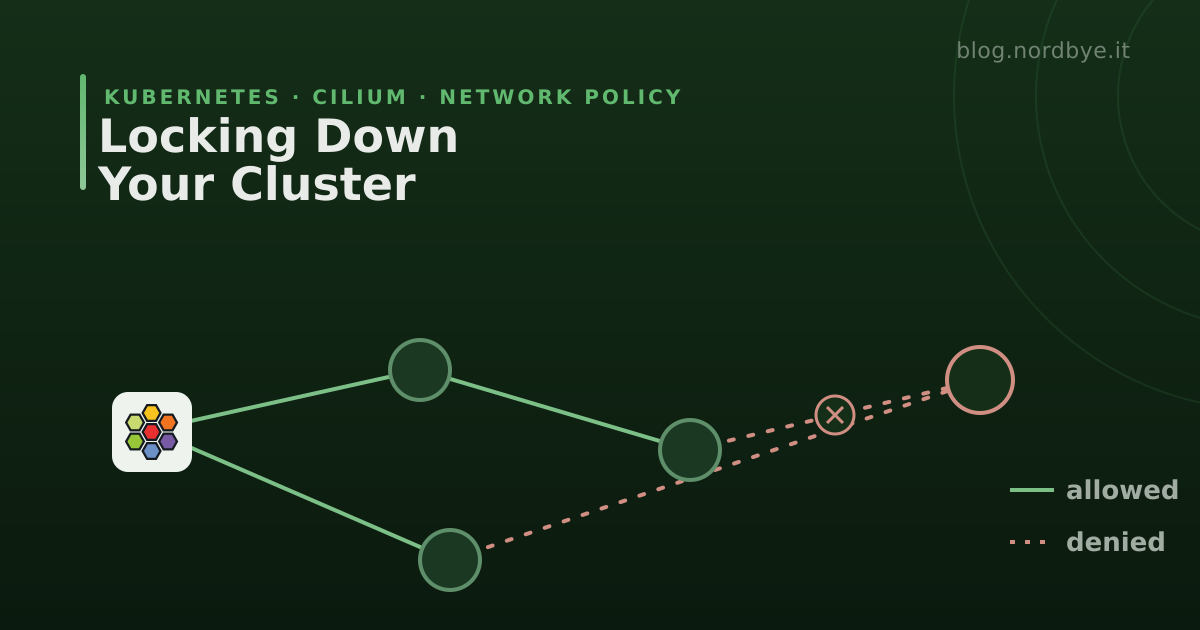
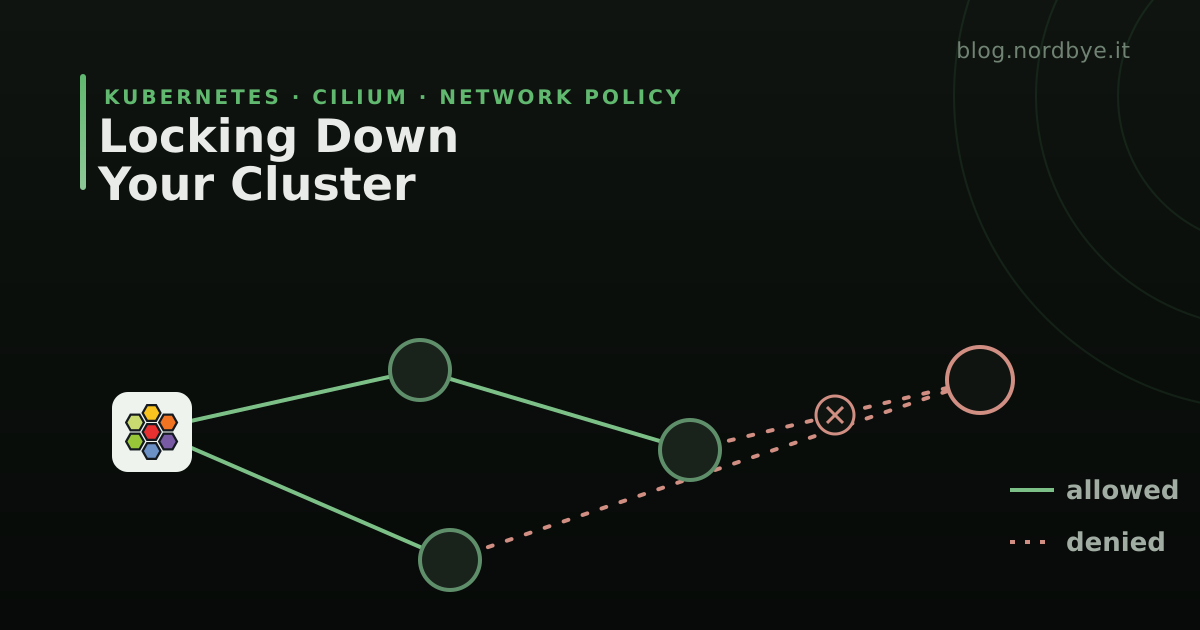
fix(blog): green accent on the site, near-black ground on the covers
The site chrome was still arctic blue. Northlight's own surfaces are
neutral, so the accent tokens in assets/css/custom.css are the whole
palette contract, and they were never moved off the old blue.

Light mode uses #347940 rather than the portfolio's #378144. Northlight
requires 4.5:1 between an accent and its own --accent-tint; #378144
measures 4.35 and #347940 measures 4.76. This is the same two-percent
adjustment, for the same reason, that the outgoing blue override made.
Dark mode uses #7cc088 at 7.81 on its tint, against the 7.77 the blue
measured, so dark reading is unchanged apart from hue.

Cover grounds move from the green field to the near-black anchor. A fully
green canvas made the covers read as a colour swatch rather than a
diagram. Green now carries type, accents and the arc motif only.

Verification: all six covers re-rendered with the librsvg container the
workflow documents, two checked visually; accent contrast computed
against the theme's own tint compositing in both modes.

Changed region(s): [[0.0, 0.0, 1.0, 0.181], [0.7708, 0.5429, 0.8633, 0.6635], [0.6783, 0.6333, 0.7092, 0.6937]]

diff --git a/blog/assets/css/custom.css b/blog/assets/css/custom.css
@@ -2,18 +2,24 @@
    so it is minified and fingerprinted with everything else and costs no extra request.
    Being last in the cascade, a rule at the same specificity wins.
 
-   One job: retune the `slate` palette to the arctic blue the portfolio at nordbye.it
-   uses, so the two sites read as one brand. The source of truth for these values is
-   portfolio/src/styles/tokens.css in this repository — `--accent` there.
+   One job: retune the `slate` palette to the eucalyptus green the portfolio at
+   nordbye.it uses, so the two sites read as one brand. The source of truth for these
+   values is portfolio/src/styles/tokens.css in this repository — `--accent` there — and
+   the full spec at nordbye.it/brand. Northlight's own surfaces are neutral (white and
+   #0b0b0e), so the accent is the only thing carrying the palette on this site.
 
-   The light tone is #1e6ad1 rather than the portfolio's exact #1f6fda. Same hue, same
+   The light tone is #347940 rather than the portfolio's exact #378144. Same hue, same
    saturation, two percent darker. Northlight measures every shipped accent against its
    own --accent-tint, which is where a featured card's eyebrow lands, and requires 4.5:1
-   there; #1f6fda measures 4.33 and #1e6ad1 measures 4.66, against slate's own 4.97. The
+   there; #378144 measures 4.35 and #347940 measures 4.76, against slate's own 4.97. The
    theme dropped a candidate palette for missing that floor by less, so matching the
    portfolio exactly here would mean shipping something it rejected. The difference is
-   not visible side by side. Dark mode takes the portfolio value unchanged — #5db7ff
-   measures 7.76 on its tint.
+   not visible side by side. This is the same adjustment, for the same reason, that the
+   outgoing arctic-blue override made.
+
+   Dark mode uses #7cc088, a lighter step of the same hue. It measures 7.81 on its tint,
+   within a whisker of the 7.77 the outgoing blue measured, so nothing about the dark
+   reading experience changes except the hue.
 
    The three tokens below are the whole palette contract: --accent is the readable tone
    (links, active TOC item, progress bar), --accent-pastel is the soft one (fills, hover
@@ -22,10 +28,10 @@
    tuned per palette in both modes and are not part of this. */
 
 html[data-palette="slate"] {
-  --accent: #1e6ad1;
-  --accent: light-dark(#1e6ad1, #5db7ff);
-  --accent-pastel: #5db7ff;
-  --accent-pastel: light-dark(#5db7ff, #3789e3);
-  --accent-tint: rgba(30, 106, 209, 0.08);
-  --accent-tint: light-dark(rgba(30, 106, 209, 0.08), rgba(93, 183, 255, 0.11));
+  --accent: #347940;
+  --accent: light-dark(#347940, #7cc088);
+  --accent-pastel: #7cc088;
+  --accent-pastel: light-dark(#7cc088, #4e8a5a);
+  --accent-tint: rgba(52, 121, 64, 0.08);
+  --accent-tint: light-dark(rgba(52, 121, 64, 0.08), rgba(124, 192, 136, 0.11));
 }
